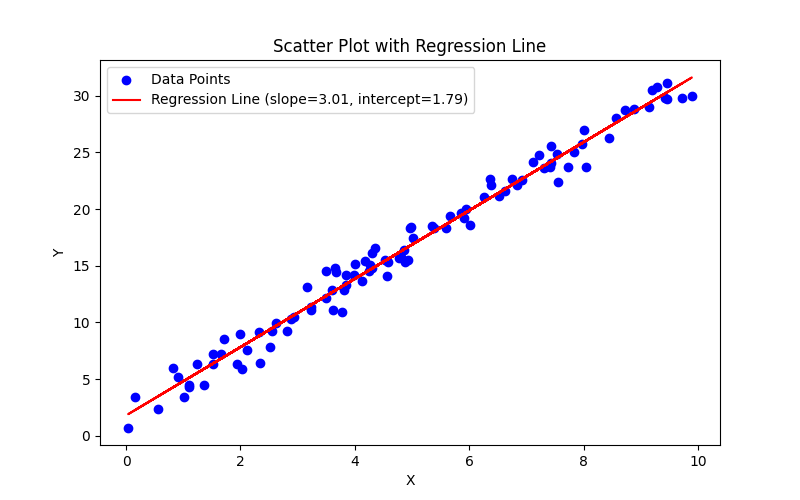
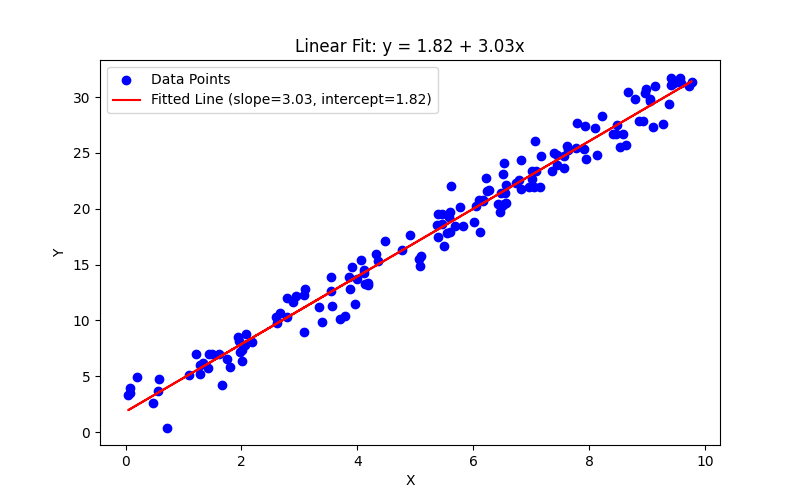
Added demo video and fixed bugs

diff --git a/app.py b/app.py
@@ -4,6 +4,7 @@ import matplotlib.pyplot as plt
 from sklearn.linear_model import LinearRegression
 import os
 
+
 app = Flask(__name__)
 
 # Ensure the 'static' directory exists for saving plots
@@ -25,10 +26,11 @@ def generate_plots(N, mu, sigma2, S):
     # Create scatter plot with regression line
     plt.figure(figsize=(8, 5))
     plt.scatter(X, Y, color='blue', label='Data Points')
-    plt.plot(X, model.predict(X), color='red', label=f'Regression Line (slope={slope:.2f}, intercept={intercept:.2f})')
+    plt.plot(X, model.predict(X), color='red', label=f'Fitted Line (slope={slope:.2f}, intercept={intercept:.2f})')
     plt.xlabel('X')
     plt.ylabel('Y')
-    plt.title('Scatter Plot with Regression Line')
+    #plt.title('Scatter Plot with Regression Line')
+    plt.title(f'Linear Fit: y = {intercept:.2f} + {slope:.2f}x')
     plt.legend()
     plot1_path = 'static/plot1.png'
     plt.savefig(plot1_path)
@@ -45,22 +47,24 @@ def generate_plots(N, mu, sigma2, S):
         intercepts.append(model.intercept_)
 
     # Create histograms of slopes and intercepts
-    plt.figure(figsize=(8, 5))
-    plt.hist(slopes, bins=30, alpha=0.6, label='Slopes', color='green')
-    plt.axvline(slope, color='red', linestyle='--', label=f'Initial slope={slope:.2f}')
-    plt.xlabel('Slope')
+    plt.figure(figsize=(10, 6))
+    plt.hist(slopes, bins=30, alpha=0.6, label='Slopes', color='blue')
+    plt.hist(intercepts, bins=30, alpha=0.6, label='Intercepts', color='orange')
+    plt.axvline(slope, color='blue', linestyle='--', label=f'Slope: {slope:.2f}')
+    plt.axvline(intercept, color='orange', linestyle='--', label=f'Intercept: {intercept:.2f}')
+    plt.xlabel('Value')
     plt.ylabel('Frequency')
-    plt.title('Histogram of Slopes')
+    plt.title('Histogram of Slopes and Intercepts')
     plt.legend()
     plot2_path = 'static/plot2.png'
     plt.savefig(plot2_path)
     plt.close()
 
     # Calculate proportions for more extreme values
-    slope_extreme = np.mean(np.abs(slopes) > np.abs(slope))
-    intercept_extreme = np.mean(np.abs(intercepts) > np.abs(intercept))
+    slope_more_extreme = sum(s > slope for s in slopes) / S  # Already provided
+    intercept_more_extreme = sum(i < intercept for i in intercepts) / S  # Already provided
 
-    return plot1_path, plot2_path, slope_extreme, intercept_extreme
+    return plot1_path, plot2_path, slope_more_extreme, intercept_more_extreme
 
 @app.route("/", methods=["GET", "POST"])
 def index():
